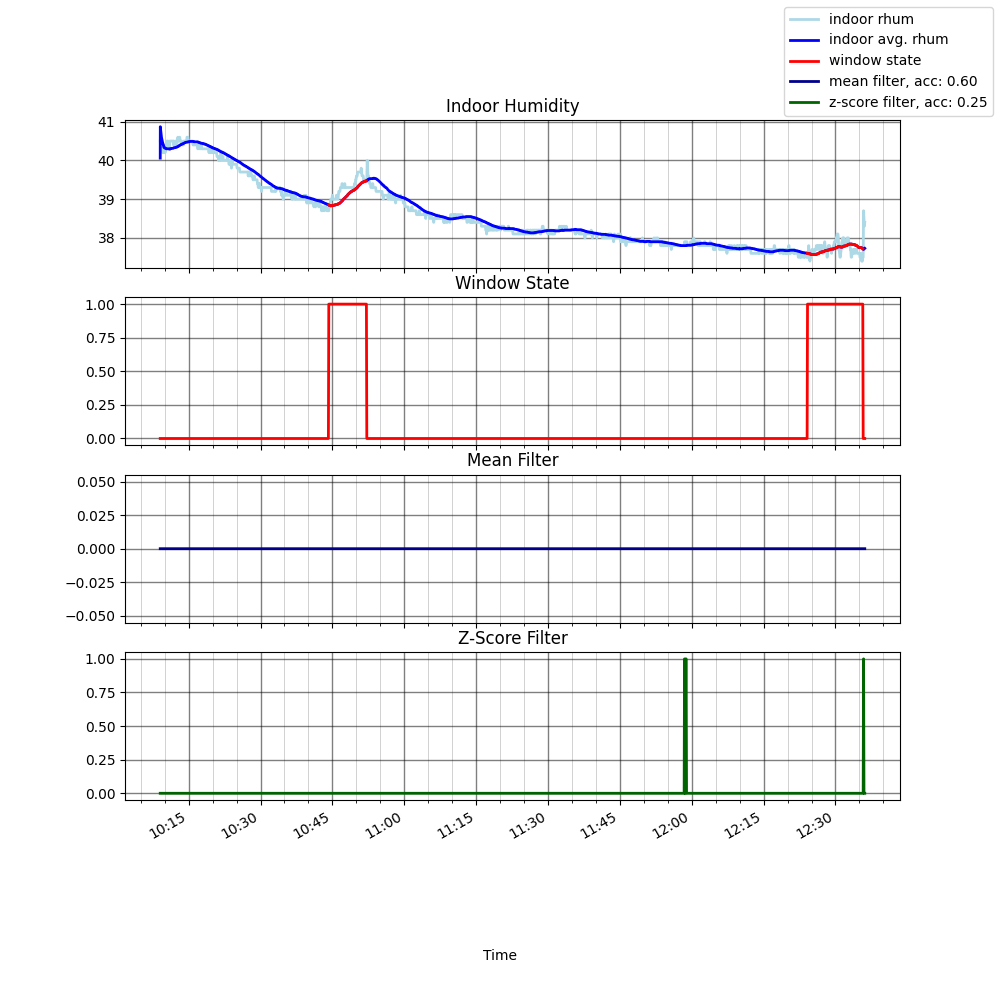
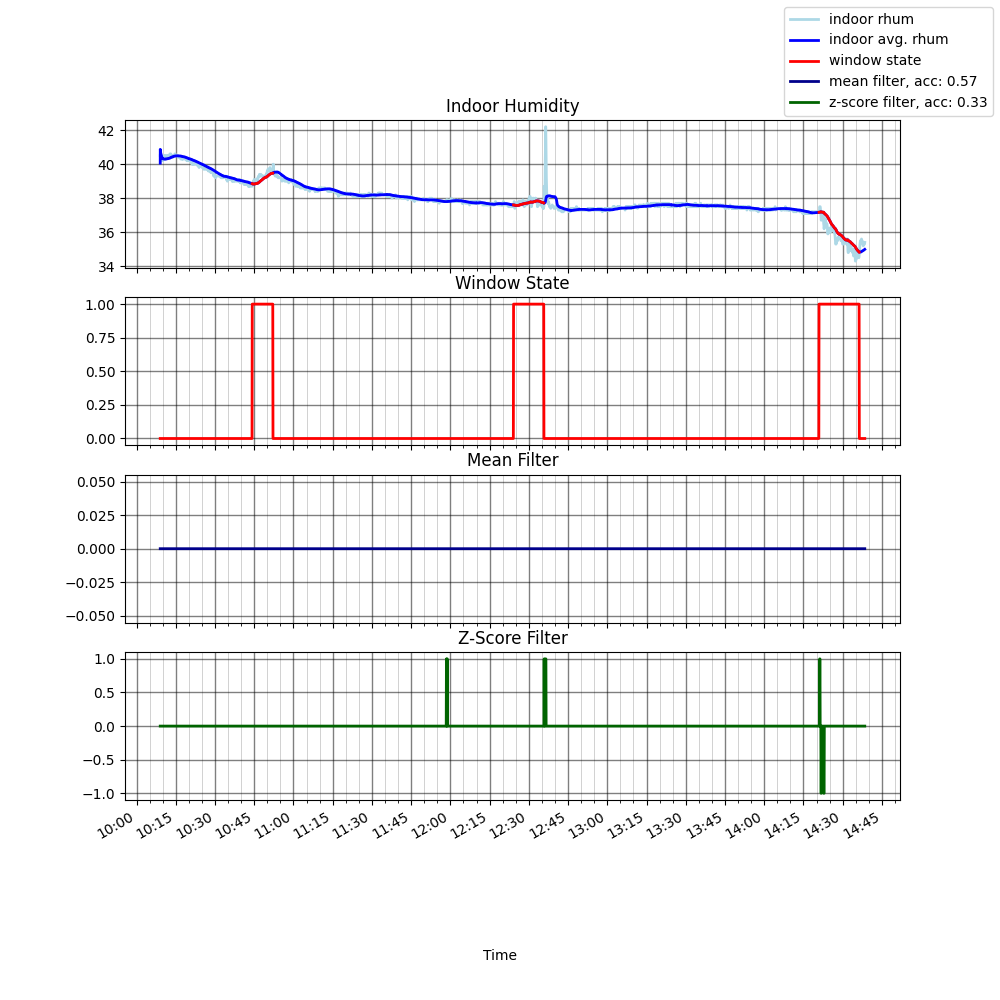
moved mean variables to data class, and improved relative accuracy method

diff --git a/DataProcessor/signal_processing/AlgoChecker.py b/DataProcessor/signal_processing/AlgoChecker.py
@@ -1,19 +1,22 @@
 import numpy as np
 from data_tools import indoorLogReader
 from signal_processing import peak_detection
+from data_tools import algoSettings
 
 # delays in seconds
 arduino_delay = 5
 aceptable_delay = 90
 
-files = ['indoor_2021-04-16_09-48-58', 'indoor_2021-04-19_09-42-42', 'indoor_2021-04-15_14-59-05']
-
 
 def get_results(filename):
     data = indoorLogReader.read_file(filename)
 
-    return dict(mean_rhum=get_relative_acc(data, peak_detection.mean_algo(data["rHum"], 100, 2)),
-                mean_co2=get_relative_acc(data, peak_detection.mean_algo(data["CO2"], 10, 100)),
+    return dict(mean_rhum=get_relative_acc(data, peak_detection.mean_algo(data["rHum"],
+                                                                          algoSettings.hum_lag,
+                                                                          algoSettings.hum_threshold)),
+                mean_co2=get_relative_acc(data, peak_detection.mean_algo(data["CO2"],
+                                                                         algoSettings.co2_lag,
+                                                                         algoSettings.co2_threshold)),
                 thresholding_rhum=get_relative_acc(data, peak_detection.thresholding_algo(np.array(data["rHum"]),
                                                                                           peak_detection.rhum_lag,
                                                                                           peak_detection.rhum_threshold,
@@ -52,9 +55,10 @@ def get_relative_acc(data, alg_result):
         if data["windowState"][i] == 1 and alg_result[i] != 0 and not correct:
             correct = True
             tp += 1
+            print("tp: " + str(i))
         elif data["windowState"][i - 1] == 1 and data["windowState"][i] == 0 and not correct:
             fn += 1
-
+            print("fn: " + str(i))
         elif data["windowState"][i] == 0 and correct:
             correct = False
 
@@ -79,16 +83,8 @@ def get_relative_acc(data, alg_result):
 
     for i in range(len(alg_result)):
         # fp test
-        if alg_result[i] != 0:
-            correct = False
-            for j in range(i - int((5 * 60) / arduino_delay), i+1):
-                if j > 0 and data["windowState"][j] == 1:
-                    correct = True
-                    break
-            if not correct and time_since_last_fp > 60:
-                fp += 1
-                time_since_last_fp = 0
-        time_since_last_fp += arduino_delay
+        if alg_result[i] != 0 and alg_result[i-1] == 0 and data["windowState"][i] == 0:
+            fp += 1
 
     return get_conf_matrix(tp, fp, tn, fn)
 

diff --git a/DataProcessor/plot_tools/indoorPlot.py b/DataProcessor/plot_tools/indoorPlot.py
@@ -1,6 +1,7 @@
 from signal_processing import peak_detection
 from signal_processing import AlgoChecker
 from data_tools import indoorLogReader
+from data_tools import algoSettings
 
 import matplotlib.dates as mdates
 import matplotlib.pyplot as plt
@@ -66,7 +67,7 @@ def plot1():
 def plotFiltersHum():
     # plot rhum, real window state, filters
     fig, (ax1, ax2, ax3, ax4) = plt.subplots(4, sharex='all', figsize=(10, 10))
-    m_rhum = peak_detection.mean_algo(np.array(data["rHum"]), 100, 2)
+    m_rhum = peak_detection.mean_algo(np.array(data["rHum"]), algoSettings.hum_lag, algoSettings.hum_threshold)
     z_rhum = \
         peak_detection.thresholding_algo(np.array(data["rHum"]), peak_detection.rhum_lag, peak_detection.rhum_threshold,
                                          peak_detection.rhum_influence)['signals']
@@ -109,7 +110,7 @@ def plotFiltersCO2():
     # plot co2, real window state, filters
     fig, (ax1, ax2, ax3, ax4) = plt.subplots(4, sharex='all', figsize=(10, 10))
 
-    m_co2 = peak_detection.mean_algo(np.array(data["CO2"]), 100, 75)
+    m_co2 = peak_detection.mean_algo(np.array(data["CO2"]), algoSettings.co2_lag, algoSettings.co2_threshold)
     z_co2 = \
         peak_detection.thresholding_algo(np.array(data["CO2"]), peak_detection.co2_lag, peak_detection.co2_threshold,
                                          peak_detection.co2_influence)['signals']

diff --git a/DataProcessor/signal_processing/peak_detection.py b/DataProcessor/signal_processing/peak_detection.py
@@ -29,6 +29,7 @@ def mean_algo(y,lag, threshold):
     return np.asarray(mean_clean_up(signals))
     #return np.asarray(signals)
 
+
 def mean_clean_up(signals):
     clean_signals = np.zeros(len(signals))
     for i in range(len(signals)):

diff --git a/DataProcessor/data_tools/algoSettings.py b/DataProcessor/data_tools/algoSettings.py
@@ -1,0 +1,4 @@
+hum_lag = 2
+hum_threshold = 100
+co2_lag = 100
+co2_threshold = 75
